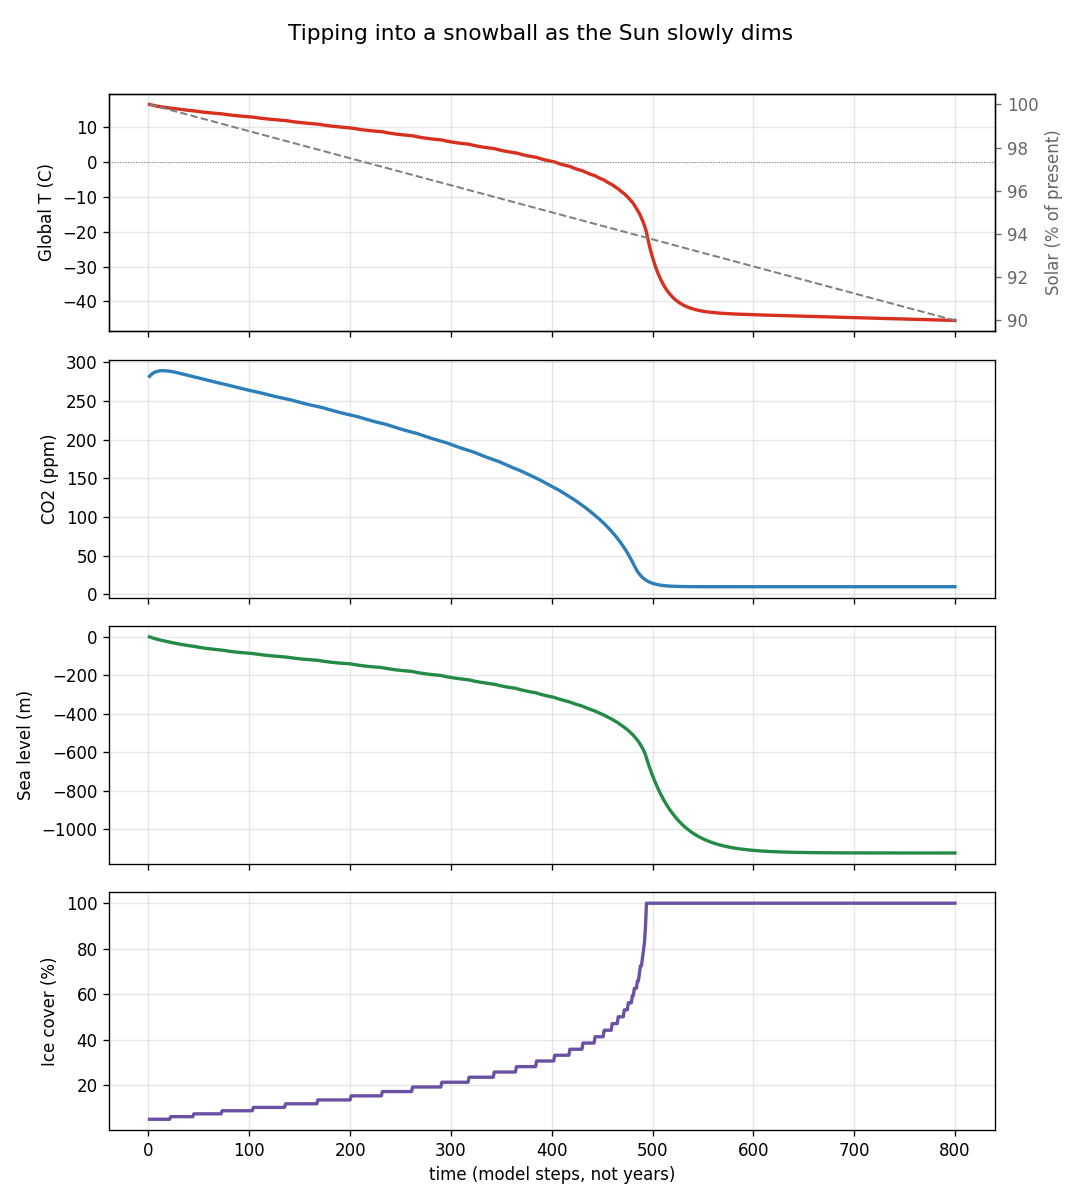
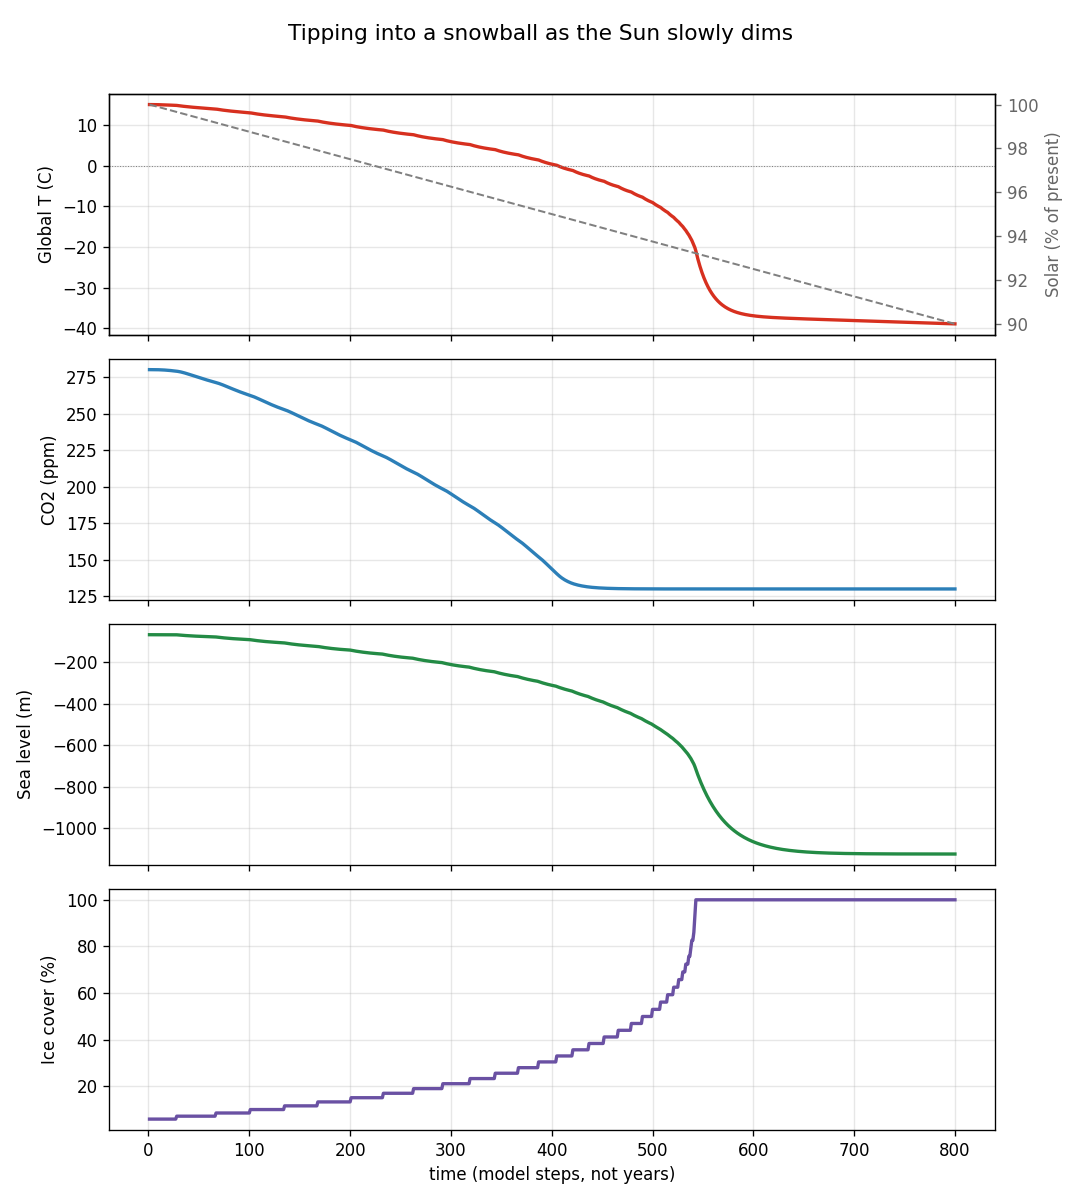
Refresh README and images for the corrected model

diff --git a/include/simulation_params.hpp b/include/simulation_params.hpp
@@ -53,7 +53,8 @@ struct Params {
     double co2_base = 280.0;      // reference / starting CO2 (ppm)
     double co2_forcing = 5.35;    // radiative forcing coefficient (W/m^2 per ln)
     double co2_ref_temp = 15.0;   // global temp at which CO2 == co2_base (C)
-    double co2_solubility = 10.0; // equilibrium CO2 shift per degree of global T (ppm/C)
+    double co2_solubility = 10.0; // equilibrium CO2 shift per degree of ocean T (ppm/C);
+                                  // ocean T = global mean, floored at t_freeze
     double co2_relax_time = 10.0; // ocean CO2 adjustment timescale (time units)
     double co2_floor = 10.0;      // minimum CO2 (ppm), keeps ln finite
 };

diff --git a/python_sim/interactive.py b/python_sim/interactive.py
@@ -2,7 +2,9 @@
 
 Opens a live window: drag the solar slider and watch the climate relax toward
 the new forcing. Push the Sun down a few percent and the ice runs away into a
-snowball; ease it back up to recover. Find the tipping point by hand.
+snowball. Find the tipping point by hand. Note that the ice is sticky: easing
+the Sun back up leaves much of it in place, and once the planet has snowballed
+even the slider's maximum cannot thaw it. Reset returns to today's climate.
 
 Needs an interactive Matplotlib backend (the desktop default), so run it
 directly rather than in a headless environment:

diff --git a/python_sim/animate_globe.py b/python_sim/animate_globe.py
@@ -44,7 +44,7 @@ def _setup_globe(fig, pos, field, title, cmap, label, vmin, vmax):
 
 def animate(path: str = "figures/ice_age_globe.gif", frames: int = 60,
             steps_per_frame: int = 8, fps: int = 12,
-            solar_start: float = 1.0, solar_end: float = 0.93) -> Path:
+            solar_start: float = 1.0, solar_end: float = 0.90) -> Path:
     grid = ClimateGrid(90, 180)
     params = Params()
     engine = SimulationEngine(grid, params)

diff --git a/python_sim/animate_polar.py b/python_sim/animate_polar.py
@@ -45,7 +45,7 @@ def _setup(fig, pos, data, central_lat, title, cmap, vmin, vmax):
 
 def animate(path: str = "figures/ice_caps_polar.gif", frames: int = 60,
             steps_per_frame: int = 8, fps: int = 12,
-            solar_start: float = 1.0, solar_end: float = 0.93) -> Path:
+            solar_start: float = 1.0, solar_end: float = 0.90) -> Path:
     grid = ClimateGrid(90, 180)
     params = Params()
     engine = SimulationEngine(grid, params)

diff --git a/python_sim/animate.py b/python_sim/animate.py
@@ -34,7 +34,7 @@ def _panel(ax, field, title, cmap, label, vmin, vmax):
 
 def animate(path: str = "figures/ice_age.gif", frames: int = 60,
             steps_per_frame: int = 8, fps: int = 12,
-            solar_start: float = 1.0, solar_end: float = 0.93) -> Path:
+            solar_start: float = 1.0, solar_end: float = 0.90) -> Path:
     grid = ClimateGrid(90, 180)
     params = Params()
     engine = SimulationEngine(grid, params)

diff --git a/README.md b/README.md
@@ -19,6 +19,11 @@ drawn for orientation only; the model itself has no continents.*
 - Back in **1969**, Mikhail Budyko and William Sellers independently built
   simple climate models that predicted this kind of runaway freeze, long before
   the geological evidence for it was widely accepted.
+- The Sun was dimmer back then: standard models of how the Sun brightens over
+  time (Gough 1981) put it at about **94% of today's brightness**. That is
+  right where this model tips over, although the leading explanations point
+  to falling CO2 as the main trigger, with the fainter Sun leaving Earth
+  closer to the edge.
 - The real snowball ended because volcanoes kept pumping CO2 into the air.
   With the planet frozen, almost nothing removed it, so over millions of years
   the greenhouse effect grew strong enough to melt the ice.
@@ -64,8 +69,8 @@ before industrialization, and about 66 m of sea level locked up in the ice of
 Antarctica and Greenland.
 
 Now look at the last two rows. Going from 96% to 95% sunlight, the planet does
-not get a little colder. It collapses from a mild ice age into a frozen
-snowball. That sudden jump is a **tipping point**.
+not get a little colder. It collapses from a cold world, with ice reaching the
+mid-latitudes, into a frozen snowball. That sudden jump is a **tipping point**.
 
 ![Global temperature, CO2, sea level and ice cover as the Sun slowly dims](docs/images/timeseries.png)
 
@@ -108,10 +113,35 @@ pip install .
 python -m python_sim.interactive
 ```
 
-Push the Sun down toward 94% and watch the ice run away, then try to bring it
-back. (See [Install](#install) for compiler details.)
+Push the Sun down toward 94% and watch the ice run away. Then try to bring it
+back: you can't. Even the slider's maximum of 115% won't thaw a snowball (see
+why above). Press **Reset** to return to today's climate.
+
+Even before a snowball, the ice is stubborn. Dip the Sun to 96% and back to
+100%, and the planet stays several degrees colder than it started (about 9 C
+once it fully settles): ice that has grown keeps itself cold by reflecting
+sunlight. Real ice does this too, but less strongly than here (see the
+limitations below).
+
+(See [Install](#install) for compiler details.)
 
 Every other experiment is a one-line command too; see [Run](#run).
+
+## How realistic is it?
+
+A few independent checks:
+
+- **Today's Earth comes out right:** about 15 C on average, 280 ppm of CO2,
+  and 66 m of sea level stored in ice.
+- **Doubling CO2 warms it by 3.0 C.** The real-world best estimate is about
+  3 C (likely range 2.5 to 4 C, IPCC 2021), and the model was never tuned to
+  hit it.
+- **Energy is conserved exactly:** once the climate settles, the sunlight
+  absorbed equals the heat sent back to space.
+- **The answers come from the physics, not the setup:** they don't change with
+  the time step, and barely change with the grid size (within 0.2 C).
+- **Automated tests** check these properties on Linux, Windows and macOS after
+  every change.
 
 ## Honest limitations
 
@@ -120,6 +150,11 @@ A model this simple gets the big picture right but leaves a lot out:
 - **No continents.** The grid has no map of land and sea, so climate only
   varies with latitude. Results form bands, not realistic geography.
 - **Yearly averages.** There are no seasons and no day and night.
+- **Ice is too stubborn.** Once ice grows, it keeps itself cold by reflecting
+  sunlight, and here nothing breaks that loop: there are no summers to melt ice
+  edges, and heat only flows to and from the global average rather than in
+  from warm neighbouring regions. Real ice ages do end; in this model, a partly
+  frozen world barely retreats when the Sun brightens again.
 - **A simplified Sun.** The slider dims the whole Sun evenly. Real ice-age
   cycles (Milankovitch cycles) come from slow wobbles in Earth's orbit that
   shift *where and when* sunlight falls, with little change to the total.
@@ -162,7 +197,12 @@ lands on Earth's ~15 C.
 The ice-albedo and CO2 feedbacks are built into the balance itself (albedo
 enters the absorbed term, CO2 the greenhouse term) rather than bolted on as
 gains. Heat transport is a coupling rather than a feedback: it links them by
-spreading any local cooling planet-wide. The external driver is the solar
+spreading any local cooling planet-wide. CO2 is exchanged with the ocean only
+through open water (the rate scales with `open_water_fraction`), and the ocean
+temperature driving uptake is floored at freezing, so a frozen-over ocean
+holds CO2 fixed. Ice is a state variable with memory: it forms below `t_freeze`
+and melts only when the iced cell itself rises above it, which is what makes
+partial glaciations sticky. The external driver is the solar
 multiplier, a uniform brightening or dimming of the Sun. Time advances in
 abstract model steps, not years. Every coefficient lives in the `Params` struct
 and is settable from Python.
@@ -234,7 +274,8 @@ is git-ignored.
 
 A `pytest` suite in `tests/` locks in the physics: zero-copy bindings, the
 realistic present-day baseline (~15 C), the analytic energy balance, the
-sea-level formula and its physical bounds, and the snowball tipping behaviour.
+sea-level formula and its physical bounds, CO2's physical limits, runs starting
+from today's settled climate, and the snowball tipping behaviour.
 Build the extension first, then:
 
 ```bash
